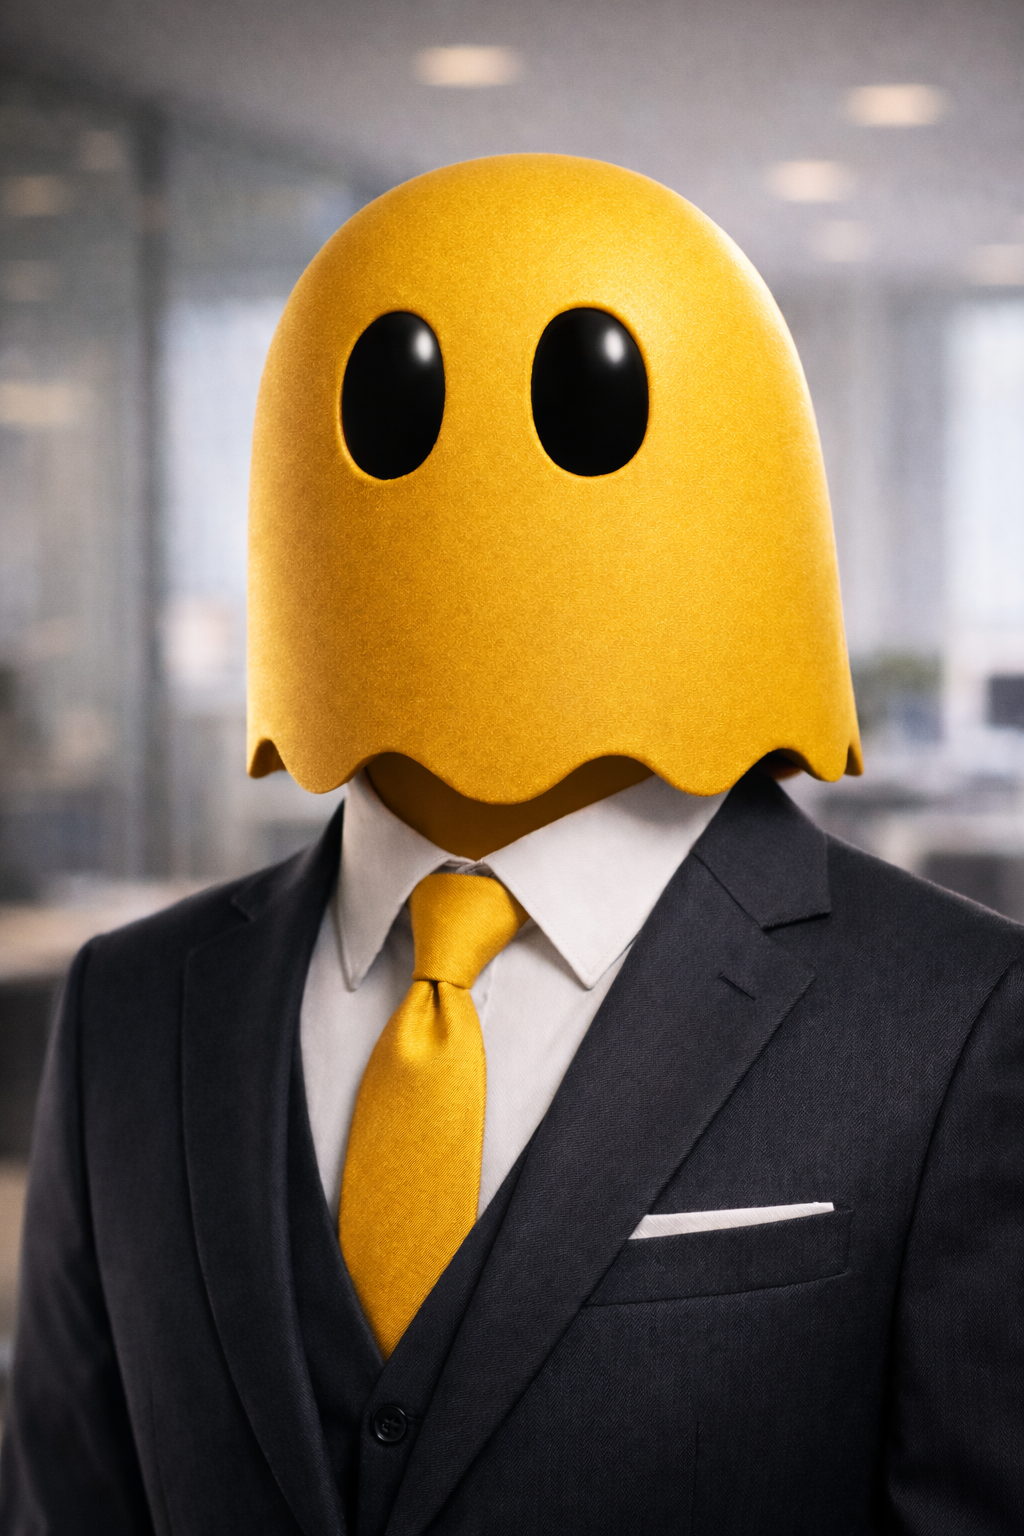
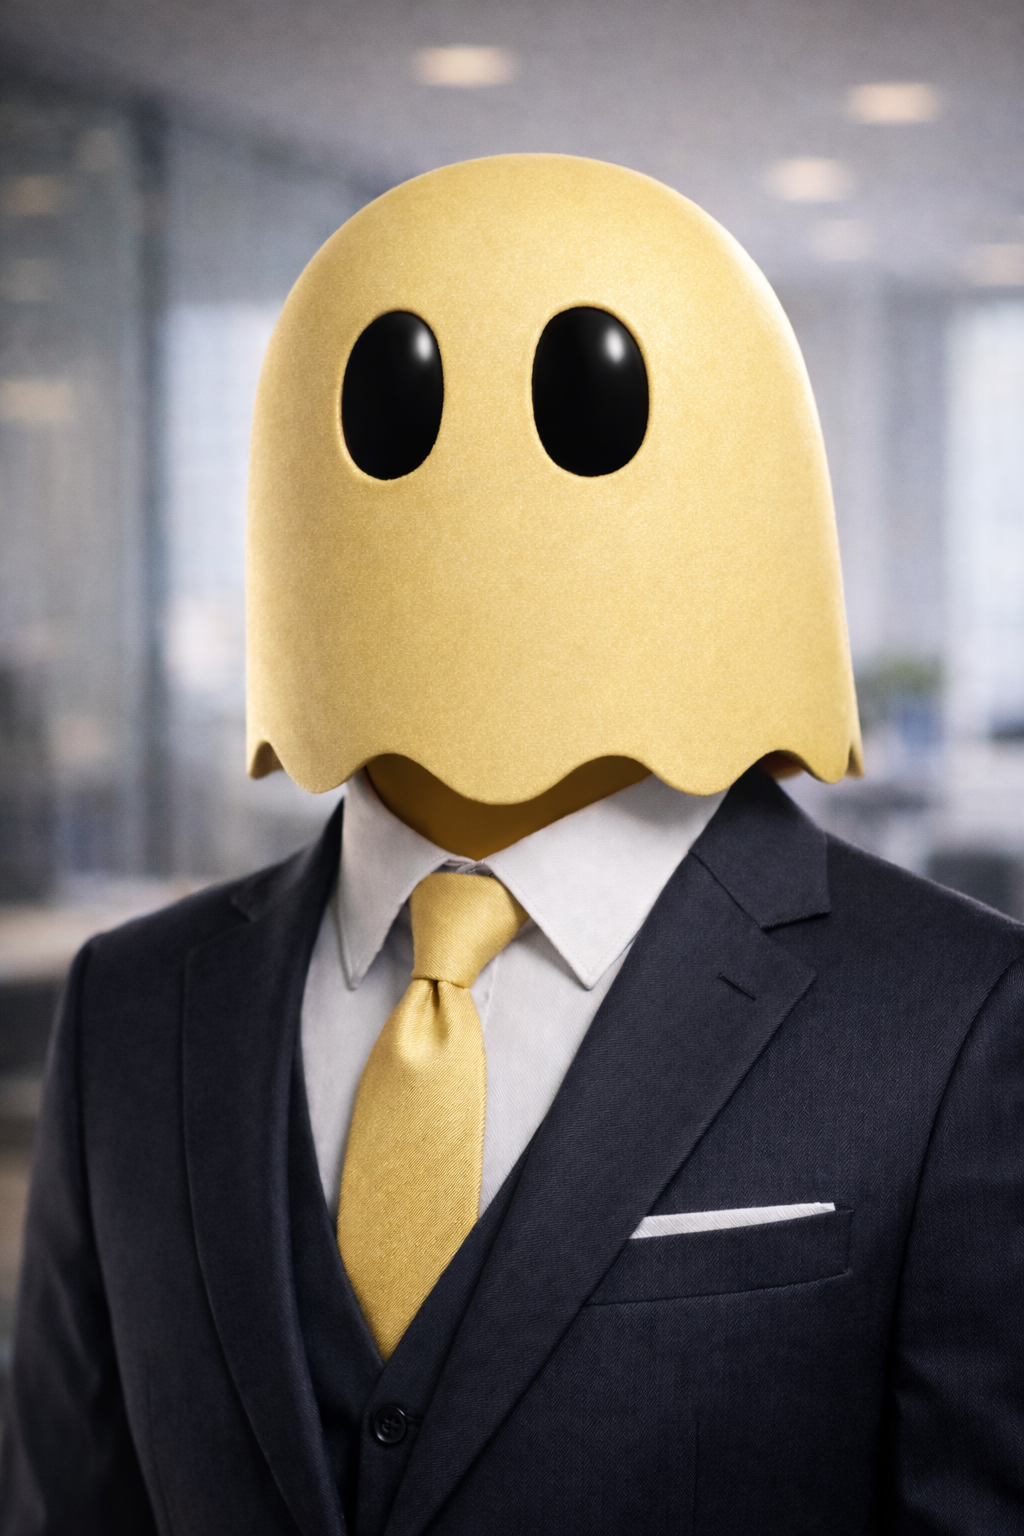
TK.img04 - img ecommerce & fix colours

diff --git a/src/components/PortfolioCollage.tsx b/src/components/PortfolioCollage.tsx
@@ -27,10 +27,10 @@ export function PortfolioCollage() {
                 id: "side-left",
                 slot: "side-left",
                 variant: "side",
-                src: "/collage/product1.png",
+                src: "/collage/product_stampa3d.png",
                 alt: "Left",
-                tagTop: "BRAND DESIGN",
-                tagBottom: "MINIMAL & CLEAN",
+                tagTop: "STAMPA 3D",
+                tagBottom: "PROGETTAZIONE & PROTOTIPAZIONE",
             },
             {
                 id: "top-1",
@@ -90,7 +90,7 @@ export function PortfolioCollage() {
                 id: "side-right",
                 slot: "side-right",
                 variant: "side",
-                src: "/collage/product1.png",
+                src: "/collage/product_ecommerce.png",
                 alt: "Right",
                 tagTop: "E-COMMERCE",
                 tagBottom: "BELLI E FUNZIONALI",
